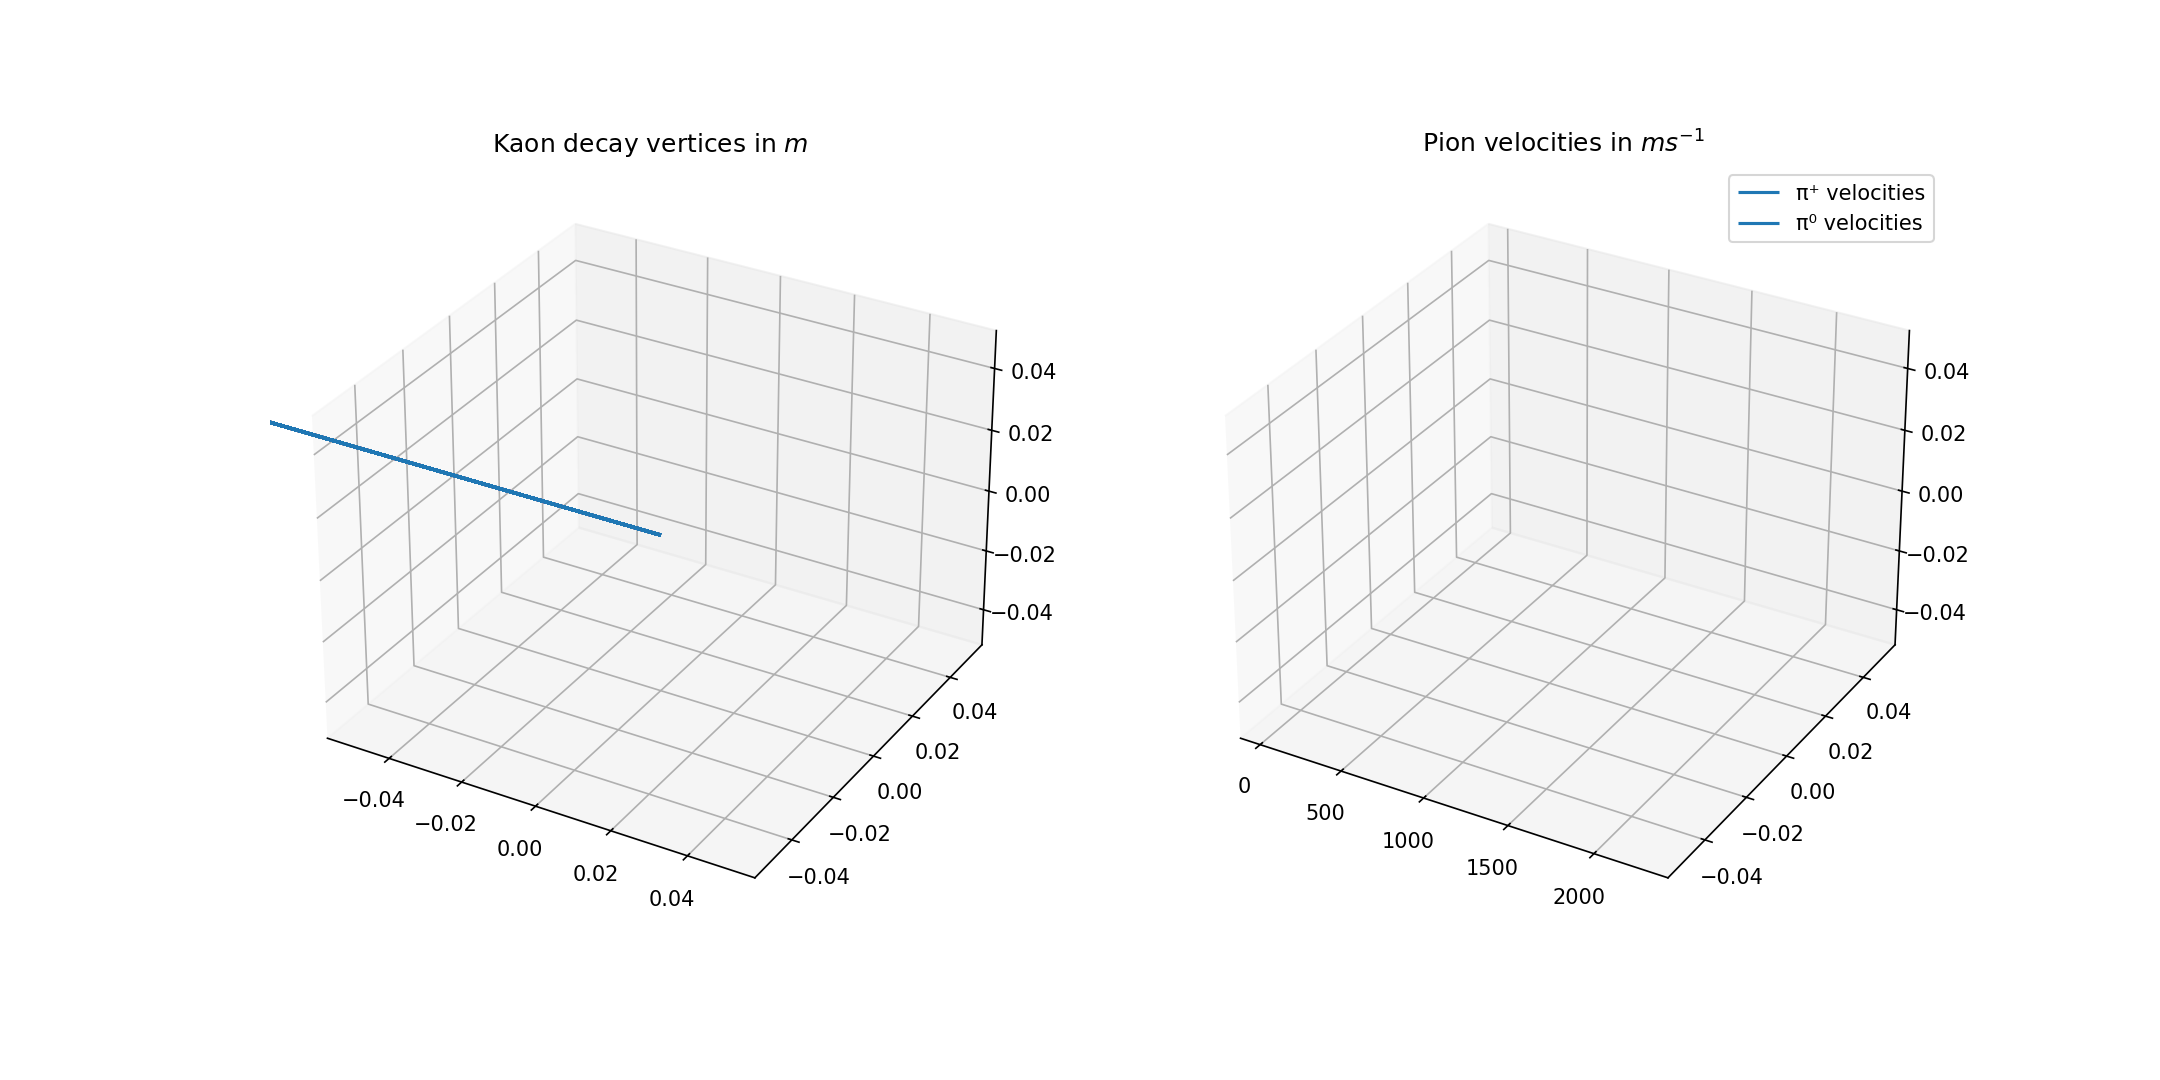
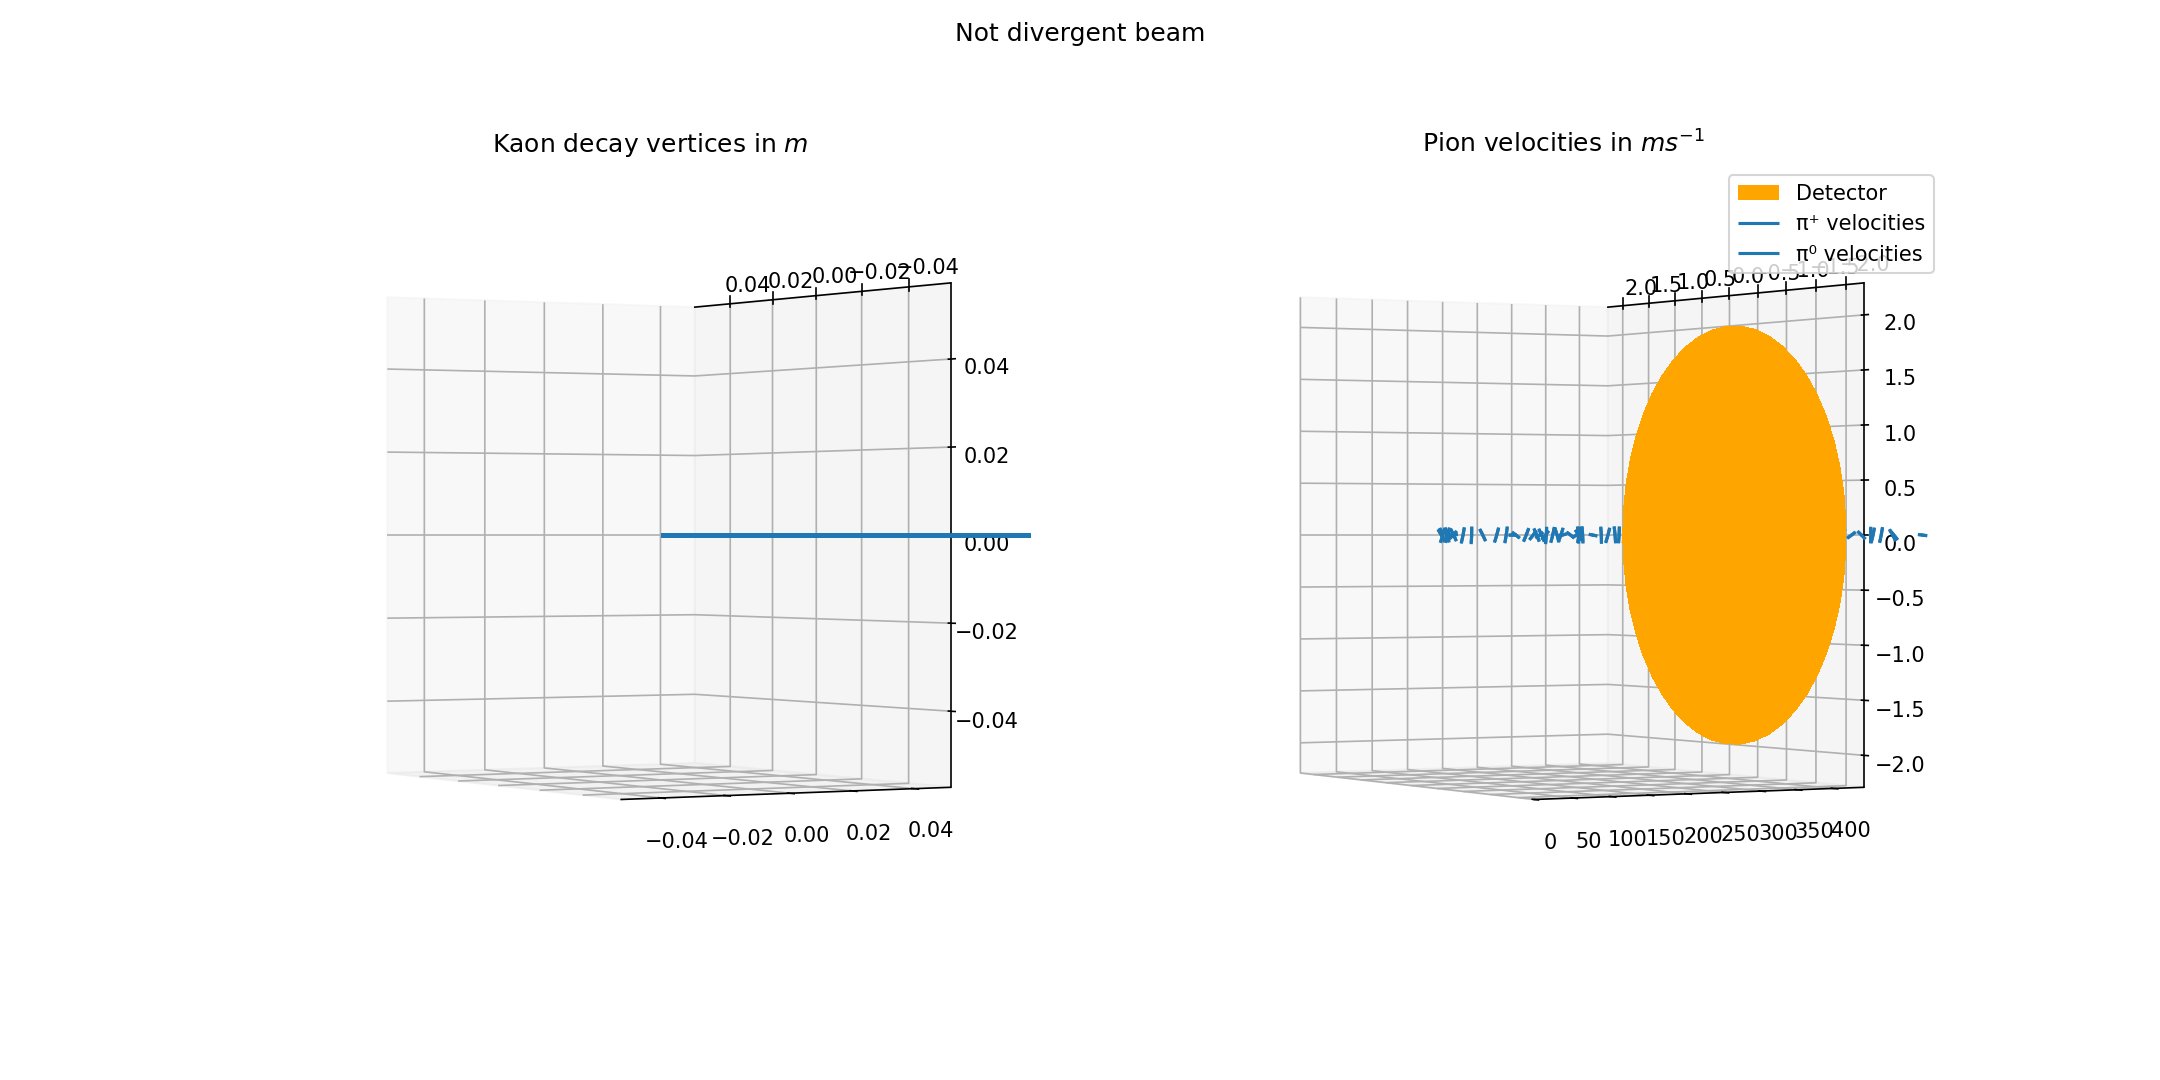
Matplotlib Semi-good 3D

diff --git a/scripts/generate_plots.py b/scripts/generate_plots.py
@@ -4,6 +4,8 @@ import logging
 import numpy as np
 import matplotlib.pyplot as plt
 
+from vispy import app, scene
+from vispy.visuals import MeshVisual
 from vispy.scene.visuals import Arrow
 
 from numpy.typing import NDArray
@@ -12,7 +14,6 @@ from find_dec_length import nll, distribution
 from common import Cache, MAGIC as M, CONSTANTS as C, EXPERIMENTAL_CONSTANTS as E
 
 
-global logger
 logger = logging.getLogger(__name__)
 
 
@@ -64,23 +65,32 @@ def plot_nll(cache: Cache):
     fig.savefig("./graphs/task2_nll.png")
 
 
-def plot3d(a: NDArray, name: str):
+def plot3d(a: NDArray, name: str, detector_z: float):
     fig, (ax1, ax2) = plt.subplots(1, 2, figsize=(14.4, 7.2), dpi=150, subplot_kw={"projection":"3d"})
+    fig.suptitle(name)
     a = a[::M.sample_size//100] # only take 100 element subset of sample
-    a[:,1,:] = a[:,1,:] / C.m_pp
-    a[:,2,:] = a[:,2,:] / C.m_np
-    ax1.quiver(empty := np.zeros(a.shape[0]), empty, empty, a[:,0,2], a[:,0,0], a[:,0,1])
-    ax2.quiver(a[:,0,2], a[:,0,0], a[:,0,1], a[:,1,2], a[:,1,0], a[:,1,1], label="π⁺ velocities")
-    ax2.quiver(a[:,0,2], a[:,0,0], a[:,0,1], a[:,2,2], a[:,2,0], a[:,2,1], label="π⁰ velocities")
+    a[:,1,:] = a[:,1,:] / (C.m_pp * C.MeVperCsq2kg)
+    a[:,2,:] = a[:,2,:] / (C.m_np * C.MeVperCsq2kg)
+
+    ax1.quiver(empty := np.zeros(a.shape[0]), empty, empty, a[:,0,0], a[:,0,1], a[:,0,2])
+
+    r = np.linspace(0, E.DETECTOR2_RADIUS, 50)
+    phi = np.linspace(0, 2*np.pi, 50)
+    x = np.outer(r, np.cos(phi))
     y = np.outer(r, np.sin(phi))
     z = np.full(x.shape, detector_z)
     ax2.plot_surface(x, y, z, label="Detector", shade=False, antialiased=False, color='orange')
+
+    ax2.quiver(a[:,0,0], a[:,0,1], a[:,0,2], a[:,1,0], a[:,1,1], a[:,1,2], label="π⁺ velocities", normalize=True, length=1)
+    ax2.quiver(a[:,0,0], a[:,0,1], a[:,0,2], a[:,2,0], a[:,2,1], a[:,2,2], label="π⁰ velocities", normalize=True, length=1)
+
     ax2.set_zlim(0, detector_z)
     ax1.set_title("Kaon decay vertices in $m$")
     ax2.set_title("Pion velocities in $ms^{-1}$")
     ax2.legend()
-    fig.savefig(f"./graphs/task3_sample_{name.replace(' ', '_')}.png")
+    ax1.view_init(210, 0, 90)
     ax2.view_init(210, 0, 90)
+    fig.savefig(f"./graphs/task3_sample_{name.replace(' ', '_').lower()}.png")
 
 
 def plot_samples(cache: Cache):
